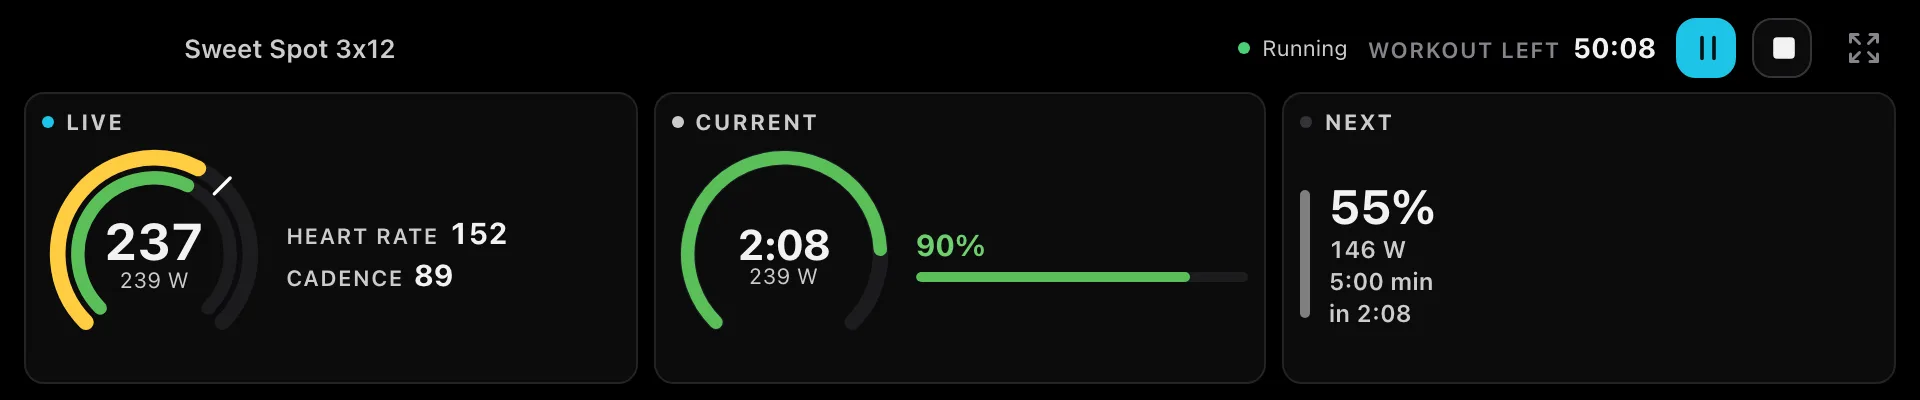
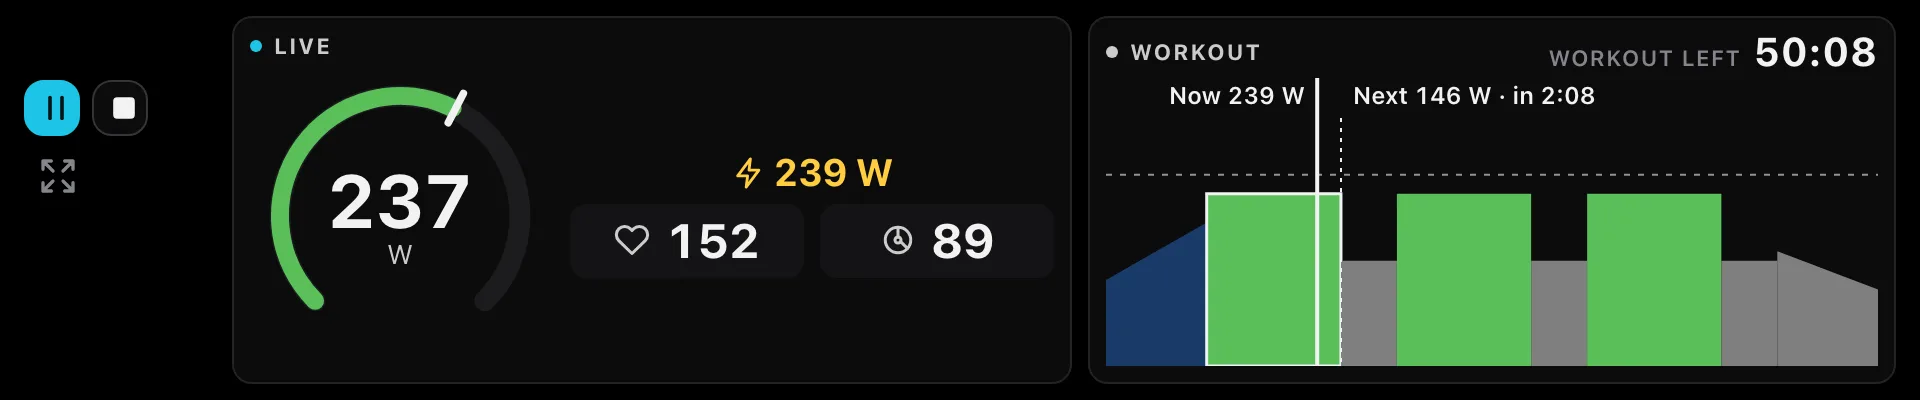
Document the compact graph layout and retake the screenshot

diff --git a/site/features.html b/site/features.html
@@ -24,7 +24,7 @@
 
 <section class="deep" id="compact"><div class="wrap grid">
   <div class="side rv"><span class="eyebrow">Compact view</span><h2 class="display">Train next to a video.</h2><p>Shrink the ride screen into a small window and keep it beside or above YouTube or any other video player. The same Ride keeps running, with the same ERG control, recording and sounds.</p></div>
-  <div class="rv"><div class="frame"><div class="bar"><i></i><i></i><i></i></div><img class="sd" src="img/compact-dark.webp" alt="Compact view: Live gauge, Current segment ring and Next segment in a 960 by 200 window" width="1920" height="400" loading="lazy"><img class="sl" src="img/compact-light.webp" alt="Compact view: Live gauge, Current segment ring and Next segment in a 960 by 200 window" width="1920" height="400" loading="lazy"></div><div class="cards"><div class="card"><h4>Three panels</h4><p>Live shows the power gauge with target, heart rate and cadence. Current shows the segment ring with time left, target and progress. Next shows the target, its length and when it starts.</p></div><div class="card"><h4>Any size</h4><p>It opens as a 960 × 200 bar and shrinks down to 320 × 200, or into a narrow vertical panel. The smaller the window, the less text it shows. The gauges and the ring always stay.</p></div><div class="card"><h4>One click</h4><p>Use the compact view icon in the top bar during a ride. The expand button brings back the previous window size and position.</p></div><div class="card"><h4>Still in control</h4><p>Play and pause, stop and virtual gears stay within reach, and keyboard and controller shortcuts keep working.</p></div></div></div>
+  <div class="rv"><div class="frame"><div class="bar"><i></i><i></i><i></i></div><img class="sd" src="img/compact-dark.webp" alt="Compact view: Live gauge with heart rate and cadence, and the workout graph in a 960 by 200 window" width="1920" height="400" loading="lazy"><img class="sl" src="img/compact-light.webp" alt="Compact view: Live gauge with heart rate and cadence, and the workout graph in a 960 by 200 window" width="1920" height="400" loading="lazy"></div><div class="cards"><div class="card"><h4>Live numbers and the whole workout</h4><p>Live shows the power gauge with your target, heart rate and cadence. The graph shows the whole workout with a line where you are, the current target with the time left in this segment, and the next target and when it starts.</p></div><div class="card"><h4>Any size</h4><p>It opens as a 960 × 200 bar and shrinks down to 240 × 150, or into a narrow vertical panel (240 px wide) where the graph runs top to bottom. Long values shrink to fit, and nothing is clipped.</p></div><div class="card"><h4>One click</h4><p>Use the compact view icon in the top bar during a ride. The expand button brings back the previous window size and position.</p></div><div class="card"><h4>Still in control</h4><p>Play and pause, stop and virtual gears stay within reach, and keyboard and controller shortcuts keep working.</p></div></div></div>
 </div></section>
 
 <section class="deep" id="plans"><div class="wrap grid">

diff --git a/site/index.html b/site/index.html
@@ -71,14 +71,14 @@
       <div class="copy rv">
         <span class="eyebrow">Compact view</span>
         <h2 class="display">Train next to a&nbsp;video.</h2>
-        <p>One click shrinks the ride screen into a small window that fits beside or above YouTube or any other video player. It shows the same three panels in miniature, and ERG, recording and sounds carry on as before.</p>
+        <p>One click shrinks the ride screen into a small window that fits beside or above YouTube or any other video player. It shows your live numbers and the whole workout as a graph, and ERG, recording and sounds carry on as before.</p>
         <ul class="ticks">
-          <li><b>Live, Current and Next:</b> power gauge, segment ring and what comes next, side by side.</li>
-          <li><b>Any size</b> from 960 × 200 down to 320 × 200, or a narrow vertical panel. The smaller it gets, the less text it shows.</li>
+          <li><b>Live and the workout graph:</b> power gauge with target, heart rate and cadence, and where you are in the workout with what comes next.</li>
+          <li><b>Any size</b> from 960 × 200 down to 240 × 150, or a narrow vertical panel. Long values shrink to fit.</li>
           <li><b>Back to full view</b> restores your window size and position.</li>
         </ul>
       </div>
-      <div class="rv"><div class="frame"><div class="bar"><i></i><i></i><i></i></div><img class="sd" src="img/compact-dark.webp" alt="Compact view with the Live gauge, the Current segment ring and the Next segment" width="1920" height="400" loading="lazy"><img class="sl" src="img/compact-light.webp" alt="Compact view with the Live gauge, the Current segment ring and the Next segment" width="1920" height="400" loading="lazy"></div></div>
+      <div class="rv"><div class="frame"><div class="bar"><i></i><i></i><i></i></div><img class="sd" src="img/compact-dark.webp" alt="Compact view with the Live gauge, heart rate and cadence, and the workout graph" width="1920" height="400" loading="lazy"><img class="sl" src="img/compact-light.webp" alt="Compact view with the Live gauge, heart rate and cadence, and the workout graph" width="1920" height="400" loading="lazy"></div></div>
     </div>
 
     <div class="feature flip">

diff --git a/ui/js/render.js b/ui/js/render.js
@@ -230,14 +230,14 @@ export class CompactGraph {
     this.at = 0;
     this.labels = null;
     this.svg = null;
-    this.ro = new ResizeObserver(() => this.schedule());
+    // the drawing is out of the flow (position: absolute), so redrawing never changes the slot's size
+    this.ro = new ResizeObserver(() => this.redraw());
     this.ro.observe(slot);
   }
 
   setWorkout(w) { this.w = w; this.redraw(); }
   setOrientation(o) { if (o !== this.orientation) { this.orientation = o; this.redraw(); } }
-  schedule() { if (!this.raf) this.raf = requestAnimationFrame(() => { this.raf = 0; this.redraw(); }); }
-  destroy() { this.ro.disconnect(); if (this.raf) cancelAnimationFrame(this.raf); }
+  destroy() { this.ro.disconnect(); }
 
   /** Rebuild the SVG for the current size, workout and orientation (nothing is drawn while the slot is hidden or tiny). */
   redraw() {

diff --git a/AGENTS.md b/AGENTS.md
@@ -38,8 +38,8 @@ ui/                         frontend — static files served by Tauri (frontendD
   js/ride/summary.js        end of a ride: finishRide (called by Ride.finish) → saveFit, recordTest, showSummary and the summary* pieces
   js/sync.js                profile sync scheduling: syncCfg, scheduleSync, runSync, focus / 5-minute checks
   js/updates.js             in-app updates: initUpdates, periodic check, update card, install progress
-  js/compact.js             serialized compact/full ride presentation transitions (same Ride, native resize first) and `compactMode()` size tiers
-  js/render.js              zones, colours, mini profiles, Diagram (workout chart), Gauge, ProgressRing
+  js/compact.js             serialized compact/full ride presentation transitions (same Ride, native resize first), plus the pure logic of the compact view (no DOM, node-tested): `compactMode()` layout choice, `levelView`, `fitFontSize`, graph geometry and label placement; and `fitTexts()` (shrink long values to fit)
+  js/render.js              zones, colours, mini profiles, Diagram (workout chart), CompactGraph (the compact view's graph, both orientations), Gauge (`{ compact: true }`: one arc + target tick), ProgressRing
   js/markdown.js            tiny safe Markdown renderer (plan descriptions); escapes everything, links via open_link
   js/zwo.js                 helpers on parsed segments (no parser): powerAt, segmentAt, TSS, zone classification
   js/tests.js               FTP test protocols, evaluation, VO2max, test-workout detection
@@ -78,7 +78,9 @@ scripts/check-i18n.mjs      de/fr have exactly en's keys, plural shapes and plac
 scripts/check-html.mjs      ui/js: no innerHTML/outerHTML write or insertAdjacentHTML outside mount() in html.js
 scripts/check-css.mjs       ui/css: layer order, every file imported once into a layer, balanced braces, nested selectors start with &, components/ never name a view
 scripts/shots/              every website screenshot (site/img) from the real ui/ in headless Chromium (see "Website" below)
+  lib.mjs                   shared: Playwright loader, static server, page with the Tauri mock and fake clock, helpers
   run.mjs                   runner: server, fake clock, capture, WebP, skip unchanged, contact sheet, sync <img> sizes
+  compact-fit.mjs           overflow check of the compact view on the real UI (sizes × languages × themes × scenarios; see "Compact ride view")
   shots.mjs                 the shot list: one entry per image pair (viewport, scale, rider tweaks, steps)
   mock.js                   window.__TAURI__ stub: state, events, virtual trainer/strap/controller, seeded random
   rider.mjs                 sample rider "Lena" (history, plan progress, tests) and the fixed clock time NOW
@@ -105,7 +107,8 @@ node --check ui/js/app.js                            # quick syntax check for ed
 node scripts/check-i18n.mjs                          # translations complete and consistent (en / de / fr)
 node scripts/check-css.mjs                           # every CSS file imported into a layer, braces, & nesting
 node scripts/check-html.mjs                          # markup reaches the DOM only through mount()
-node --test scripts/compact-ride.test.mjs             # compact/full transition lifecycle
+node --test scripts/compact-ride.test.mjs             # compact/full transition lifecycle, compactMode, label placement, graph geometry, fit sizing
+npx -y -p playwright node scripts/shots/compact-fit.mjs   # compact view: nothing overflows or clips at 11 sizes (--theme, --lang, --scenario; ~10 min for all)
 node --test scripts/battery.test.mjs                   # battery state, lowest level, badge
 node --test scripts/avatar.test.mjs                    # avatar initials ink (black / white) per fill colour
 node --test scripts/html.test.mjs                      # html`` escaping, raw/Safe nesting, tHtml, mount
@@ -287,7 +290,7 @@ UI (vanilla ES modules) ──invoke(cmd, args)──▶ Rust commands (lib.rs) 
 - **Workout rows (`.wrow`):** never give the action column a fixed width; translated labels are up to twice as long as English. The columns live on the list (`.wlist`, and `.weeks` around all weeks of a plan) and rows use `grid-template-columns: subgrid`, so the action column grows to the widest row and every row stays aligned. With subgrid the row's 14 px padding comes out of the edge tracks (first track 40 = 26 + 14). Anything else placed in a `.wlist` must span `1 / -1`.
 - **Settings (`openSettings()` in views/settings.js):** one save model: every control writes `state.settings` and calls `save()` (→ `api.saveState()`) on change; numbers on `change` only when valid (`FIELDS` with min/max from the input, zones must increase), otherwise a `.field-err` line and `aria-invalid`, nothing saved. There is no Save/Cancel and no theme revert; Done/✕ refuse to close while a field is invalid (they focus it), Esc and a backdrop click always close. Views redraw once when Settings ends (`onDialogEnd`, `settingsDirty`): closed, or replaced by a confirmation it opens; never while typing. Tabs: `rider`, `riding` (sounds, ride behaviour, virtual shifting with gear tuning under *Advanced*), `sync` (Connections), `app` (appearance, language, folder, devices, updates, About). New options go into the matching tab and group; segmented controls use `segRow()`.
 - **Top bar:** it is identical on every full-size screen, including during a ride. Don't add controls there; use Settings or a "⋯" menu. The one exception is the icon-only compact-view button (`#btn-compact`, before the rider avatar), which is hidden outside a ride. Optional Compact view hides it entirely; expand restores it unchanged.
-- **Compact ride view (`compact.js`, `ride_window.rs`):** same Ride and same native window. `CompactView.set(bool)` serializes IPC and changes CSS only after success; never call `Ride.build()` on resize. `ride_window` snapshots physical geometry once, lowers minimum size to 320 × 200 (initial 960 × 200 logical), and restores the normal 900 × 640 minimum/geometry/maximization. The compact geometry the rider used is remembered in state.json's root `compact` key (physical size and, where the OS reports it, position; never synced) and restored on the next entry; a remembered position that is no longer on a connected monitor is dropped, and leaving compact / closing the app during a ride stores the geometry (`remember_compact`). Failures roll back and allow retry; window positioning is best-effort so compositor restrictions do not block resizing. Leaving the ride uses `CompactView.leave()` (`ride_window` with `leave: true`): the restore is retried once; if it still fails, the minimum goes back to 900 × 640, the snapshot is dropped and the full view is applied anyway, so the window stays resizable and the next compact toggle starts fresh. Native fullscreen must be exited first. Stop/finish/close expand before dialogs/routing; `close()` finishes the teardown (ERG release, `ride = null`, routing) even when that restore fails, so the rider never stays on a dead ride screen. The compact section holds three mini panels (LIVE gauge, CURRENT ring, NEXT card) with their own `Gauge` / `ProgressRing` instances, filled by `Ride.renderCompact()` (and `renderNext()`) next to the full-view values; a `ResizeObserver` (`Ride.cObs`, disconnected in `close()`) writes `compactMode()` as `data-mode` / `data-short` / `data-tiny` / `data-narrow` / `data-xs` on `.compact-ride`, and CSS does the rest (gauges stay, text drops out first). Play/stop and "workout left" exist twice (heading row when short, footer otherwise). Only presentation changes; recording, ERG, test rules and controller/keyboard handling continue. Compact readouts use actual target/free/all-out mode, not test-estimated FTP. **C** toggles compact/full in `Ride.onKey` (no modifier, so Ctrl/Cmd+C stays copy). No new Tauri plugin permissions.
+- **Compact ride view (`compact.js`, `ride_window.rs`):** same Ride and same native window. `CompactView.set(bool)` serializes IPC and changes CSS only after success; never call `Ride.build()` on resize. `ride_window` snapshots physical geometry once, lowers minimum size to 240 × 150 (`COMPACT_MIN`; initial 960 × 200 logical), and restores the normal 900 × 640 minimum/geometry/maximization. The compact geometry the rider used is remembered in state.json's root `compact` key (physical size and, where the OS reports it, position; never synced) and restored on the next entry; a remembered position that is no longer on a connected monitor is dropped, and leaving compact / closing the app during a ride stores the geometry (`remember_compact`). Failures roll back and allow retry; window positioning is best-effort so compositor restrictions do not block resizing. Leaving the ride uses `CompactView.leave()` (`ride_window` with `leave: true`): the restore is retried once; if it still fails, the minimum goes back to 900 × 640, the snapshot is dropped and the full view is applied anyway, so the window stays resizable and the next compact toggle starts fresh. Native fullscreen must be exited first. Stop/finish/close expand before dialogs/routing; `close()` finishes the teardown (ERG release, `ride = null`, routing) even when that restore fails, so the rider never stays on a dead ride screen. The compact section holds a live block (own compact `Gauge`, target line, heart-rate and cadence tiles) and the workout graph (`CompactGraph`, drawn into `#cmp-graph`), filled by `Ride.renderCompact()` next to the full-view values; a `ResizeObserver` (`Ride.cObs`, disconnected in `close()`) writes `compactMode(window.innerWidth, window.innerHeight)` (thresholds are window sizes) as `data-layout` (`v` vertical / `h` horizontal), `data-live`, `data-graph`, `data-foot`, `data-tiles` on `.compact-ride`, tells the graph its orientation and calls `fitTexts()`; CSS does the rest. Play/stop, expand, gears and "workout left" exist several times (heading row when short, footer, rail, graph header), all with the same `data-act`s (use `qsa`, never ids, for the copies). The graph redraws only on workout / orientation / size change; `update(at, labels)` runs from `renderCompact` while compact is active (and once on entering, via `render(true)`). Long values shrink 1 px at a time to the floor in `data-fit` (`fitTexts`): only when a text changed its length (`cmpFitKey`) or on resize, with transitions switched off while measuring (`.fit-measuring`; with Reduce motion a size set a moment ago would still read as the old one). Changing the layout or any compact text: run `scripts/shots/compact-fit.mjs`. Thresholds, label rules and the design: `docs/superpowers/specs/2026-11-20-compact-graph-layout-design.md`. Only presentation changes; recording, ERG, test rules and controller/keyboard handling continue. Compact readouts use actual target/free/all-out mode, not test-estimated FTP. **C** toggles compact/full in `Ride.onKey` (no modifier, so Ctrl/Cmd+C stays copy). No new Tauri plugin permissions.
 - **Cross-platform (macOS, Windows, Linux):**
   - **Wording:** never hard-code "Finder", "macOS Trash" or "this Mac" in the UI. Use `PLAT` from core.js (`PLAT.files`, `PLAT.trash`, `PLAT.machine`, `PLAT.onThisMachine`, `PLAT.bt`, `PLAT.emojiKey`); each is read from the dictionary (`mac.files`, `win.trash`, …) so it follows the UI language. `OS` is `mac` / `win` / `linux` and is also set as `<html data-os>`.
   - **Layout:** the 92 px traffic-light gap in the top bar applies only to `:root[data-os="mac"]`; Windows and Linux have a normal title bar (`titleBarStyle`, `hiddenTitle` and `trafficLightPosition` are macOS-only keys).

diff --git a/DESIGN.md b/DESIGN.md
@@ -199,17 +199,17 @@ The workout clock (elapsed and remaining in the chart header) uses `clamp(22px, 
 
 ### Compact ride view
 
-- Optional compact-view icon button (`#btn-compact`, arrows pointing inward, no text) in the top bar just before the rider avatar, shown only during a ride; a compact presentation of the same Ride and native window, not another dashboard or another ride. It shows **LIVE · CURRENT · NEXT** as three mini panels (`.cp`) with the same `Gauge` / `ProgressRing` drawing as the full view. `compactMode()` picks one of four tiers (`data-mode` `ws` wide+short, `wt` wide+tall, `nt` narrow+tall stacked, `ns` narrow+short) plus `short` / `tiny` / `narrow` / `xs` flags; gauges and ring never hide, text drops out first (heart rate and cadence, segment bar, NEXT details, workout time left). Panels are built once with the ride; no DOM is rebuilt on resize.
-- Hide the normal toolbar, panels, chart and ready overlay only in this view. Keep a 32 px draggable heading (workout title, readable run/pause state with connection dot and tooltip, expand) and a 36 px primary control row. On macOS, reserve the existing traffic-light space.
-- Initial inner size **960 × 200**, minimum **320 × 200** logical pixels. Four flat readouts: power, target, segment left, workout left. ≤ 639 px wraps to two columns; taller narrow panels make power/target more prominent, with cadence/HR from 460 px height. Bars ≥ 1100 px show all six readouts. No decorative gauge or nested panels.
-- Values are tabular HTML text (28–68 px depending on context); labels use `--text-2`, target uses zone ink.
-- **Text sizes** come from the type scale like everywhere else: panel headers, uppercase labels, the dial sub-line and NEXT details never go below `--fs-2xs` (11 px), and no fractional sizes. What doesn't fit at 11 px is hidden by the tiers instead of shrunk: the dial sub-line (`239 W`) drops when its dial is ≤ 84 px wide or tall (at 320 × 200 only the big number stays), cadence/HR and NEXT duration go in `ns` / `tiny`. In the stacked `nt` tier NEXT puts its values on one wrapping line, so they never run under the panel header. Missing sensors show a dash. Free/all-out targets use text without a W unit. Keep virtual gear controls in free-like segments.
+- Optional compact-view icon button (`#btn-compact`, arrows pointing inward, no text) in the top bar just before the rider avatar, shown only during a ride; a compact presentation of the same Ride and native window, not another dashboard or another ride. It shows a **live block** (`.cp-live`: power-only gauge, target line, heart rate and cadence) and the **workout graph** (`.cp-graph`, drawn by `CompactGraph`). `compactMode()` picks the layout (`data-layout`): **vertical** (`v`, narrow windows: live block on top, graph below with time running down, footer with play/stop and workout left) or **horizontal** (`h`, width ≥ 640 and ≥ 1.5 × height: rail, live block, empty space, graph with time running across), plus `data-live` (`col` gauge above, `row` gauge beside), `data-graph`, `data-foot` (`foot` / `head` / `rail`) and `data-tiles`. Built once with the ride; no DOM is rebuilt on resize.
+- Hide the normal toolbar, panels, chart and ready overlay only in this view. The vertical layout has a 32 px draggable heading row (connection dot with tooltip, gears while free-like, expand); the horizontal one has a 96 px left rail (play/pause and stop, expand, gears) and no heading, so the window can be 150 px high. On macOS, reserve the existing traffic-light space (80 px in the heading row, 32 px above the rail).
+- Initial inner size **960 × 200**, minimum **240 × 150** logical pixels. Horizontal: live block 300–420 px wide, graph 200–720 px, the leftover space between them. Vertical: gauge 116 px (`col`, from 520 px high) or 84 px (`row`), graph from 360 px high, footer joins the heading row below 244 px, heart rate and cadence hide below 190 px.
+- **Gauge:** power only, one arc with a short target tick (`g-tick`); no target arc, no inner ring, no FTP tick. **Target line:** bolt icon + watts, 19 px bold in the zone's text colour (`zoneInk`), no word "Target"; a ramp shows its range (`70–210 W`, en dash). **Heart rate / cadence:** icon + 24 px number, no label (the word is the tooltip and accessible name); cadence turns red when off target. **Graph:** bar length = % FTP (same scale as the full view's chart), dashed line = FTP, solid line = now, dotted line = start of the next segment, finished segments dimmed; "Now" label above the line and "Next" below the dotted line in the vertical layout, both in a strip above the bars in the horizontal one.
+- **Text sizes** come from the type scale: captions never go below `--fs-2xs` (11 px) and are hidden when they do not fit. Values shrink instead (`fitTexts()`, 1 px steps, never below the floor in `data-fit`: target 12, gauge number 16, workout left 14 and 12 in the heading row, tiles 14, graph watts 12), only when a value changes its length or the window is resized. Missing sensors show a dash. Free, max-effort and all-out targets use their words without a W unit. Keep virtual gear controls in free-like segments (not below 244 px high).
 - Pause/resume and stop have accessible names; expand restores full-view geometry without rebuilding Ride. Stop/results expand before opening their dialogs. Use a short auto-pause label, with the pedalling hint retained in its accessible name/tooltip.
 - Full-view geometry is machine-local and temporary; position restoration is best-effort on compositors that restrict it. Native fullscreen must be exited before switching. Resizing failures leave the current presentation available for retry.
 
 ### Responsive
 
-- **Normal minimum window:** 900 × 640; Compact ride view: 320 × 200.
+- **Normal minimum window:** 900 × 640; Compact ride view: 240 × 150.
 - **≤ 1100 px:** the workout rows drop the mini profile.
 - **≤ 980 px:** the ride panels wrap 2 + 1 and the rows drop the duration. Every row keeps its actions (☆, ⋯, *Ride* / *Start* + *Skip*): at the 900 px minimum, next to the Workouts sidebar, the title still gets ~170 px with the widest translated action cell (German favourites: ↑ ↓ ☆ ⋯ *Fahren*). Never hide the actions to make room; the title ellipsizes first.
 - **Above 1400 px:** ride readouts scale up (see Typography).

diff --git a/README.md b/README.md
@@ -185,7 +185,7 @@ Deleting always goes to the system Trash (the Recycle Bin on Windows), so it can
 
 **Display:** three panels above the workout chart, a quarter, half and quarter of the width: **Live** (the watt gauge with target and actual power, below it power, cadence, speed and heart rate with small bars), **Current segment** (target % and watts in the ring, next to it target power, target cadence, segment time with progress bar and remaining) and **Next segment** (just the values: %, watts, duration and, if set, target cadence). The intensity control sits in the control bar next to play/pause. The chart has a watt axis, your live power, cadence and heart-rate lines (each can be switched on or off; the choice is remembered per rider). The workout clock (elapsed and remaining) and all readouts scale up in full screen.
 
-**Compact view for videos:** click the **compact view icon** in the top bar (just left of your rider icon, visible during a ride) or press **C** to keep zwoTrainer beside or above YouTube or another video player. The first time it is a **960 × 200** horizontal bar; afterwards it reopens at the size and position you last used (a remembered position that is no longer on a connected screen is dropped). It can be resized down to **320 × 200**, or into a narrow vertical panel. It shows the same three panels as the full ride screen in miniature: **LIVE** (power gauge with target, heart rate and cadence), **CURRENT** (segment ring with time left, target and progress) and **NEXT** (target, duration and when it starts). The smaller the window, the less text each panel shows; the gauges and the ring always stay. Wide windows put the panels side by side, tall narrow windows stack them. Pause/resume, stop and an expand button remain accessible (in short windows they move into the title row next to the workout time left), with virtual gear buttons in free-ride/all-out segments. The title is draggable; its status shows readiness, running/paused state and trainer connection (details on hover). The normal toolbar, dashboard and chart are hidden only in Compact view. Keyboard and controller shortcuts, trainer control, sounds and recording keep working. **Return to full view** (the expand button or **C** again) restores the previous window size and maximization, and position where the window manager supports it; stop/result dialogs expand automatically. Exit native full screen before switching views. There is no embedded video player or always-on-top behavior.
+**Compact view for videos:** click the **compact view icon** in the top bar (just left of your rider icon, visible during a ride) or press **C** to keep zwoTrainer beside or above YouTube or another video player. The first time it is a **960 × 200** horizontal bar; afterwards it reopens at the size and position you last used (a remembered position that is no longer on a connected screen is dropped). It can be resized down to **240 × 150**. It shows what you need while riding: the **power gauge** with your target (a ramp shows its range, the target is coloured by its zone), your **heart rate and cadence** as large numbers, and the **whole workout as a graph** with a line where you are, **Now** (the current target and the time left in this segment) and **Next** (the next target and when it starts). Narrow windows stack these: gauge, target, heart rate and cadence on top, the graph below (time runs down), and play/pause, stop and the workout time left at the bottom. Wide windows (from 640 px, and at least 1.5 times as wide as high) put play/pause, stop and expand in a rail on the left, the live numbers next to it and the graph (time runs across) on the right; in a very wide window the free space sits between the live numbers and the graph. When the window gets too small things give way in this order: the graph (below 360 px high), then play/pause and the workout time left move into the title row (below 244 px high), and in a tiny window the heart rate and cadence (below 190 px high). Long values, such as a ramp of 100–1000 W or hours of workout time left, shrink to fit. Virtual gear buttons appear in free-ride/all-out segments (keyboard and controller still shift when the window is too short for them). The title row is draggable; its dot shows the trainer connection (details on hover). The normal toolbar, dashboard and chart are hidden only in Compact view. Keyboard and controller shortcuts, trainer control, sounds and recording keep working. **Return to full view** (the expand button or **C** again) restores the previous window size and maximization, and position where the window manager supports it; stop/result dialogs expand automatically. Exit native full screen before switching views. There is no embedded video player or always-on-top behavior.
 
 **Starting:** the workout starts after about 2 seconds of pedalling, or press **Space** / ▶.
 
